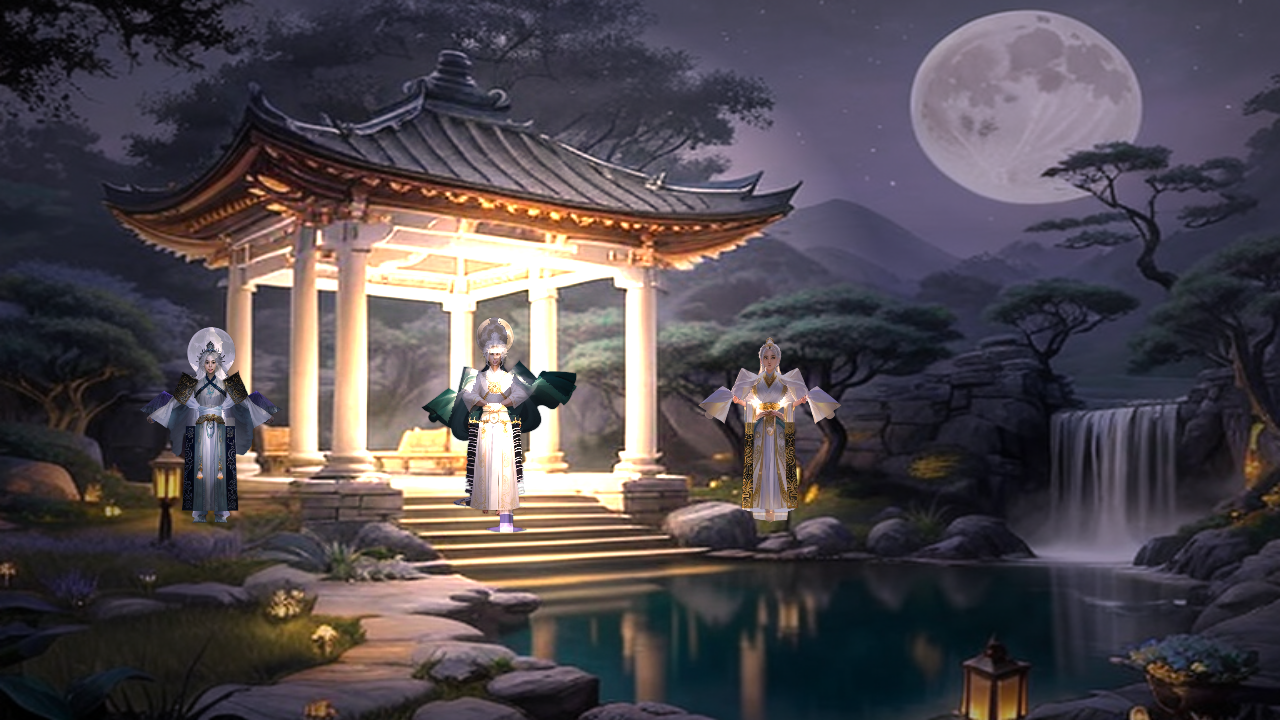
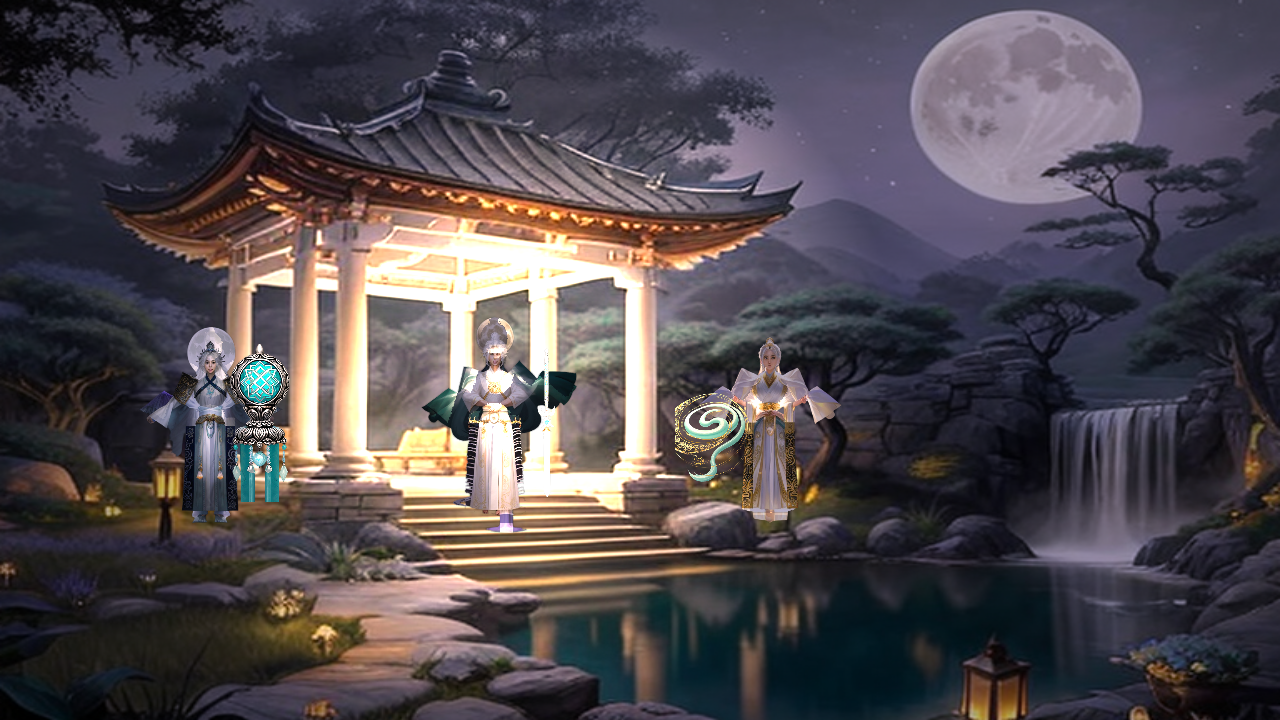
feat: add prop attachment system and refine xianxia roster grid layout
Add layout.attach schema for socketing certified prop components onto host sprites (xx_jian→xx_immortal_m, xx_ribbon→xx_immortal_f, xx_sage_staff→xx_azure_sage) with foot-pivot offsets and separate provenance tracking. Expand run-goal/SKILL.md with attach semantics and grid.center authoring notes.

Refine xianxia_roster grid (360×600 cards, 48px gap, centered rows per grid.center: true) and update xx_card_planets prompt

Changed region(s): [[0.1562, 0.4889, 0.25, 0.7028], [0.5312, 0.55, 0.5938, 0.6722], [0.4062, 0.5194, 0.4375, 0.5806]]

diff --git a/tools/publish.py b/tools/publish.py
@@ -149,12 +149,16 @@ def main(goal, unit_only, wait):
     cols = max(1, int(grid.get("cols", 3)))
     gx, gy = grid.get("origin", [24, 60])
     cw, ch, gap = grid.get("card_w", 300), grid.get("card_h", 500), grid.get("gap", 14)
+    grid_w = cols * cw + (cols - 1) * gap
     for i, cid in enumerate(cards):
         if cid in mans and mans[cid]["type"] == "ui_image":
+            # short last row: center it within the declared grid width
+            row_i, n = i // cols, min(cols, len(cards) - (i // cols) * cols)
+            cx = gx + (grid_w - (n * cw + (n - 1) * gap)) / 2 if grid.get("center") else gx
             members.append({"id": cid, "kind": "ui",
                             "dir": f"res://assets/components/{cid}",
-                            "x": gx + (i % cols) * (cw + gap),
-                            "y": gy + (i // cols) * (ch + gap),
+                            "x": cx + (i % cols) * (cw + gap),
+                            "y": gy + row_i * (ch + gap),
                             "w": cw, "h": ch})
     dialogue = layout.get("dialogue") or next(
         (c for c in spec["components"]

diff --git a/tools/extract.py b/tools/extract.py
@@ -45,7 +45,14 @@ def matte(img):
         from rembg import new_session
         _session = new_session(MODELS["matting"]["birefnet"])
     from rembg import remove
-    return remove(img, session=_session)
+    try:
+        return remove(img, session=_session)
+    except Exception:
+        # cuDNN teardown intermittently corrupts the CUDA session mid-loop
+        # (ledger #35) — rebuild and retry once; a hard abort still leaves
+        # extraction rerunnable to completion
+        _session = None
+        return matte(img)
 
 def sha(path):
     h = hashlib.sha256()

diff --git a/reports/BUG_LEDGER.md b/reports/BUG_LEDGER.md
@@ -48,10 +48,11 @@ Format: bug → where caught → fix applied → gate that owns it now.
 | 26 | composition vista showed void | harness | vista_all shot = empty quadrant | layers on 2x canvas, 1280x720 cam saw sky only; wide shots now frame full canvas (zoom 0.5) | A3 | FIXED |
 | 27 | sprites floated/overlapped: default layout y=648 vs floor, spacing 170 < sprite width | brief | min_gap_px -115, 76 overlap events | authored layout in brief (y=1050, x spread, spacing 520, patrol 300..2200) | A2 | FIXED — overlaps now 9 patrol crossings |
 | 28 | low_light coverage 0.0 | harness | low_light shot near-black + lit_coverage 0.0 | stacked causes: guideless sprites lacked _n.png (fixed via guide normals); low_light camera never aimed at a sprite; light anchored -290px above figure; GradientTexture2D had no gradient set → light texture rendered as magenta dot, PointLight2D contributed ~nothing | A3/rig | FIXED — explicit white→transparent gradient + light placed on figure → coverage 0.633 (target 0.05); focus_lit_coverage 0.999 |
-| 29 | roster grid clusters top-left, 4+3 arrangement on big canvas | brief | select_grid shot | grid origin/card size vs 1280 canvas not centered; cosmetic | A3 | OPEN — layout tuning |
+| 29 | roster grid clusters top-left, 4+3 arrangement on big canvas | brief | select_grid shot | grid authored for 1280 canvas but composition renders on 2x canvas; publish had no row centering | A3 | FIXED — 360x600 cards, grid center:true centers each row incl. short last row |
 | 30 | patrol range crossed stationary actors after walk frame restored | brief | same_row_overlap_events 80, min_gap -186 | sprite half-width ~154px ignored when ranging patrol; ranged to clear channel 780..1200 | A2 | FIXED — 0 events, min_gap +31.5 |
 | 31 | ParallaxBackground layers exposed void / seam mid-frame | harness | vista_all dark quadrant; tint probe showed peaks layer never drew | Godot ParallaxBackground scroll_offset stayed (0,0) — camera tracking dead; flank copies tiled art into visible seams | A3 | FIXED — plain sprites + manual parallax offsets, offset clamped so each 2560px layer always covers the camera view |
 | 32 | PointLight2D texture invalid (magenta dot) | harness | identical low_light shots at different light positions | GradientTexture2D created without a Gradient resource renders as missing-texture dot | — | FIXED — explicit Gradient stops; sprite now washes correctly (lit 0.999 ambient) |
-| 33 | painted props don't materialize from depth-guide geometry | component | sword_salute/staff_stance sheets | DS8 repaints weapon silhouettes into sleeves/hands even with guide + 0.75 denoise | C1 | OPEN — needs prop-layer composite or stronger model; honest limit |
-| 34 | planets card lacks literal nine distinct spheres | component | card sheets | best candidate ~5 spheres; DS8 counting limit — requirement beyond model | C1 needs_human | OPEN — accepted with flag; literal count unproven |
-| 35 | cuDNN teardown INTERNAL_ERROR intermittently aborts extract mid-pose | infra | immortal_m/f processed dirs held only sprite_idle | cudnnDestroy noise from torch-cuDNN/onnxruntime ABI mismatch; rerun completed | — | OPEN — monitor; extraction is rerunnable to completion |
+| 33 | painted props don't materialize from depth-guide geometry | component | sword_salute/staff_stance sheets | DS8 repaints weapon silhouettes into sleeves/hands even with guide + 0.75 denoise | C1 | MITIGATED — layout.attach sockets certified prop sprites onto host sprites in composition (rides patrol, provenance separate); baked-into-paint props remain model limit |
+| 34 | planets card lacks literal nine distinct spheres | component | card sheets | best candidate ~5 spheres; round 2 with arrange-in-ring phrasing still 2-4 — DS8 counting limit confirmed | C1 needs_human | OPEN — accepted with flag; literal count unproven |
+| 35 | cuDNN teardown INTERNAL_ERROR intermittently aborts extract mid-pose | infra | immortal_m/f processed dirs held only sprite_idle | cudnnDestroy noise from torch-cuDNN/onnxruntime ABI mismatch; rerun completed | — | MITIGATED — matte() rebuilds the session and retries once; hard aborts remain rerunnable to completion |
+| 36 | pair/lineup shots framed a fixed point, cropping the sprite row | harness | terrace_pair cut all three sprites at edges | hardcoded cam (640,500) z1.4 vs members spread 420..1540 | A3 | FIXED — shot now frames sprite-row extent with fit zoom |

diff --git a/.devin/skills/run-goal/SKILL.md b/.devin/skills/run-goal/SKILL.md
@@ -71,6 +71,12 @@ python tools/publish.py <goal> --wait 60
 - `patrol` ranges must leave sprite-width clearance from stationary
   members (~`h_px` × aspect ≈ 300px for 384px-tall sprites) — the
   overlap check counts rect penetration per patrol step.
+- `layout.attach` sockets certified prop components onto host sprites:
+  `{prop, to, offset, h_px}` — offsets are from the host's feet pivot;
+  props ride the patroller and keep separate provenance.
+- Card grids: `grid.center: true` centers each row within the declared
+  grid width (including the short last row); author card sizes for the
+  2× composition canvas (2560×1440), not the 1280×720 capture.
 - Parallax is manual: layers are plain sprites offset by `-cam_delta ×
   factor`, clamped so each 2560px layer always covers the view —
   `ParallaxBackground` scroll tracking does not run in this harness.
